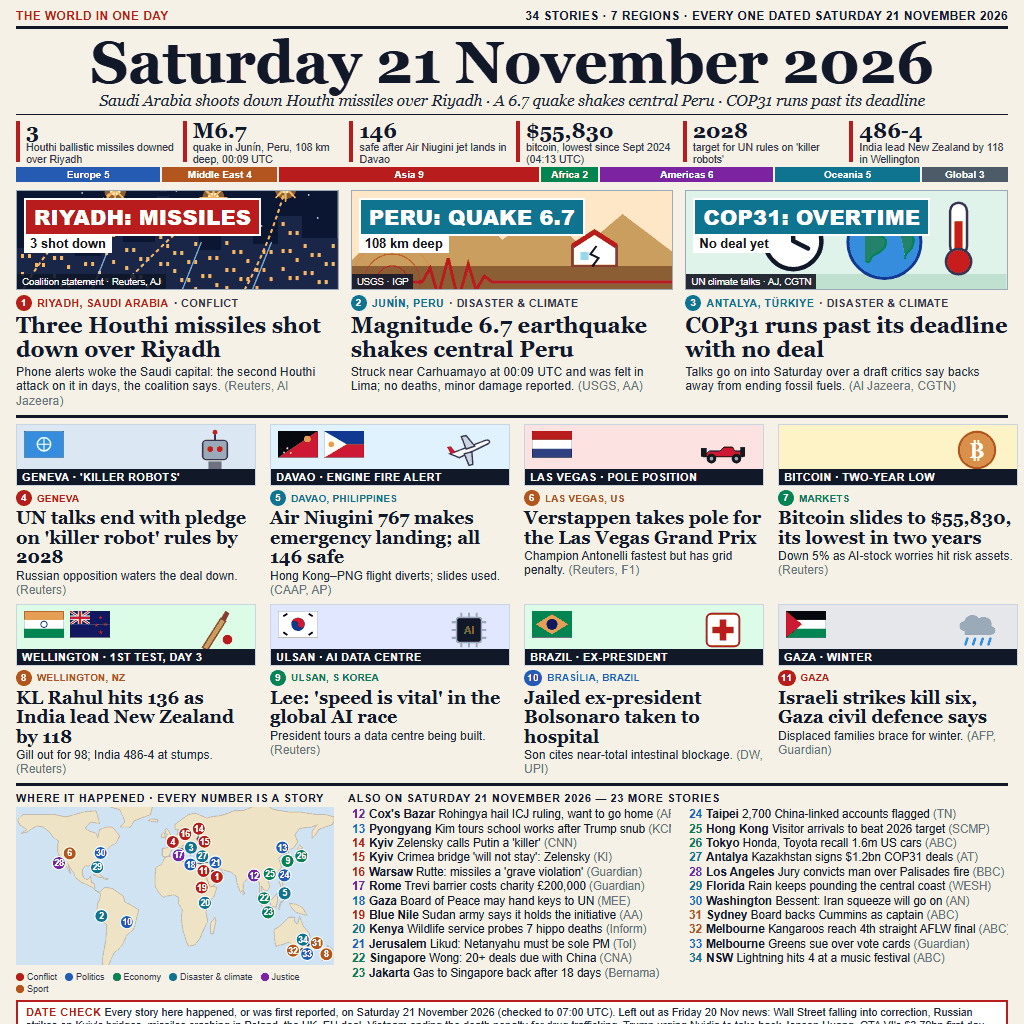
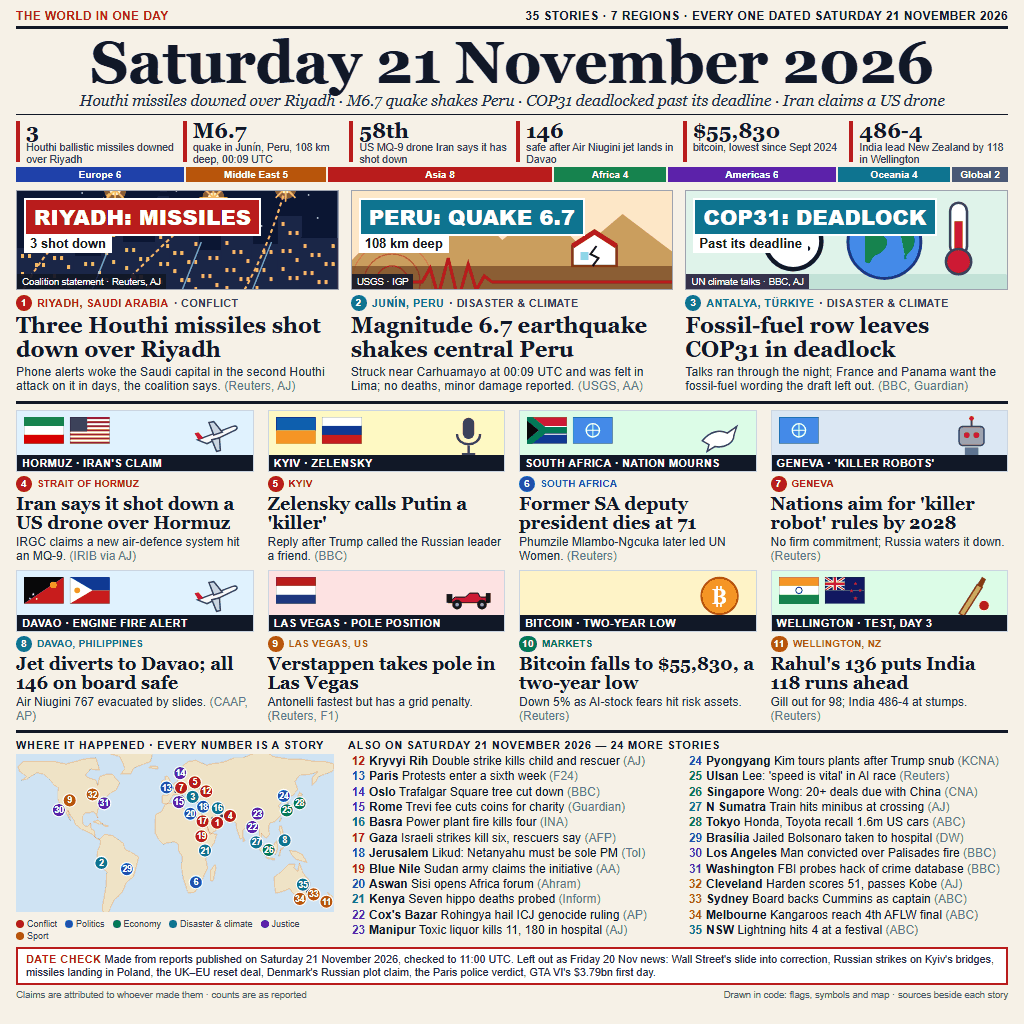
v2: Saturday's later news (Hormuz drone claim, South Africa, Basra, Manipur), larger cards and list

diff --git a/README.md b/README.md
@@ -4,7 +4,7 @@
 [![rank](https://make.fun/badge/news-image-20261121/ryanp1632-netizen/makefun-news-image-20261121/rank.svg)](https://make.fun/bounty/news-image-20261121/leaderboard?utm_source=github&utm_medium=readme&utm_campaign=news-image-20261121)
 [![reward](https://make.fun/badge/news-image-20261121/ryanp1632-netizen/makefun-news-image-20261121/reward.svg)](https://make.fun/bounty/news-image-20261121?utm_source=github&utm_medium=readme&utm_campaign=news-image-20261121)
 
-Saturday 21 November 2026's world news on one 1024 x 1024 front page: three drawn leads (Riyadh missile intercepts, the Peru earthquake, COP31 in overtime), ten illustrated cards, a map with a numbered pin for every story, a numbered list of the rest and a date check of what was left out. Everything is drawn in code (HTML and hand-written SVG, captured by headless Chrome); no image model is used.
+Saturday 21 November 2026's world news on one 1024 x 1024 front page: three drawn leads (Riyadh missile intercepts, the Peru earthquake, COP31 deadlocked past its deadline), eight illustrated cards, a map with a numbered pin for every story, a numbered list of the rest and a date check of what was left out. Everything is drawn in code (HTML and hand-written SVG, captured by headless Chrome); no image model is used.
 
 ![entry](entry.png)
 
